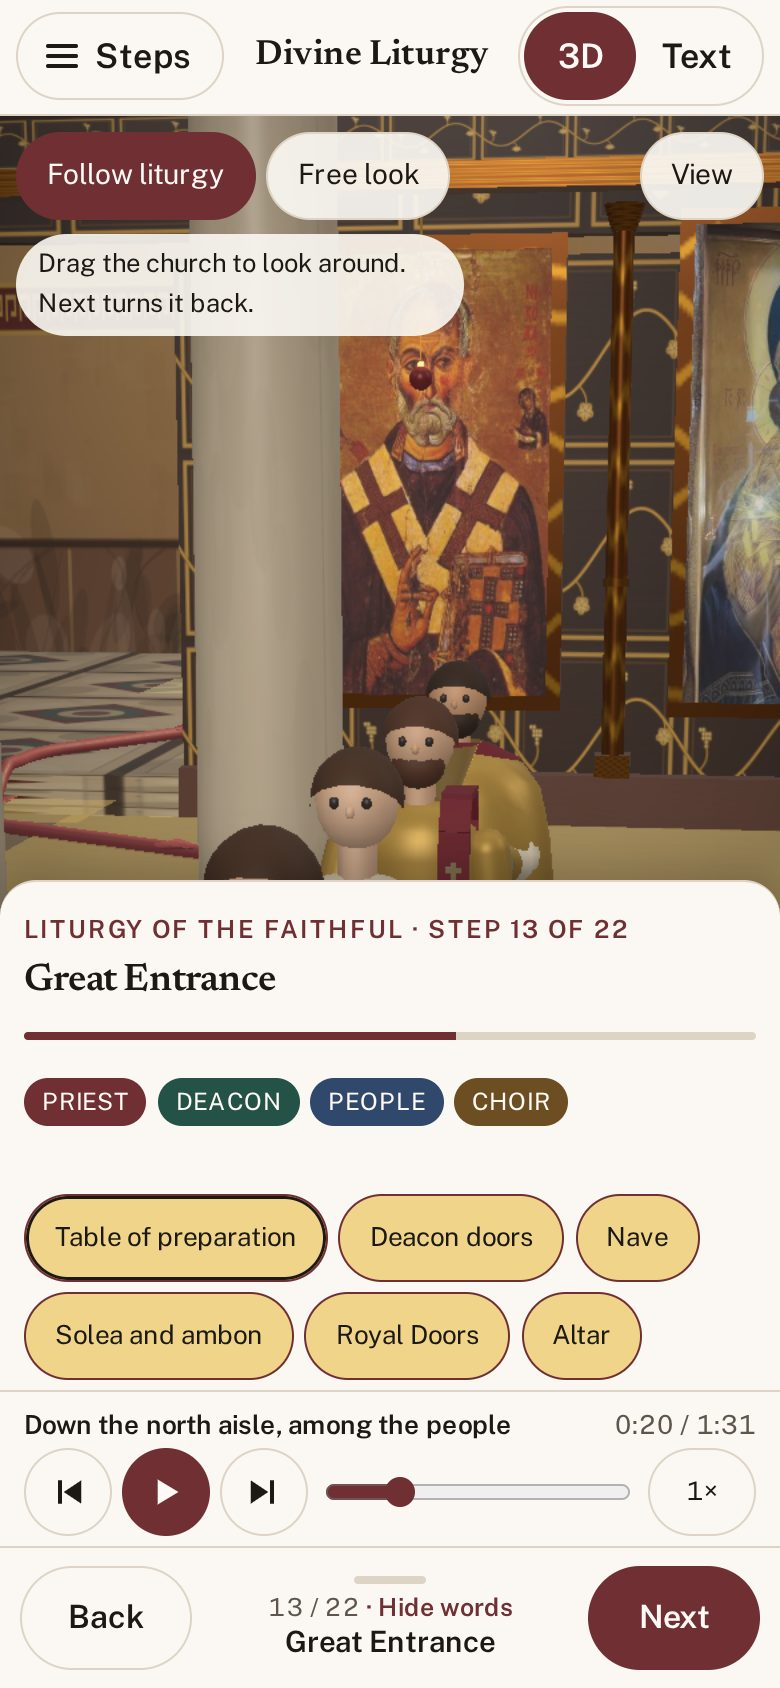
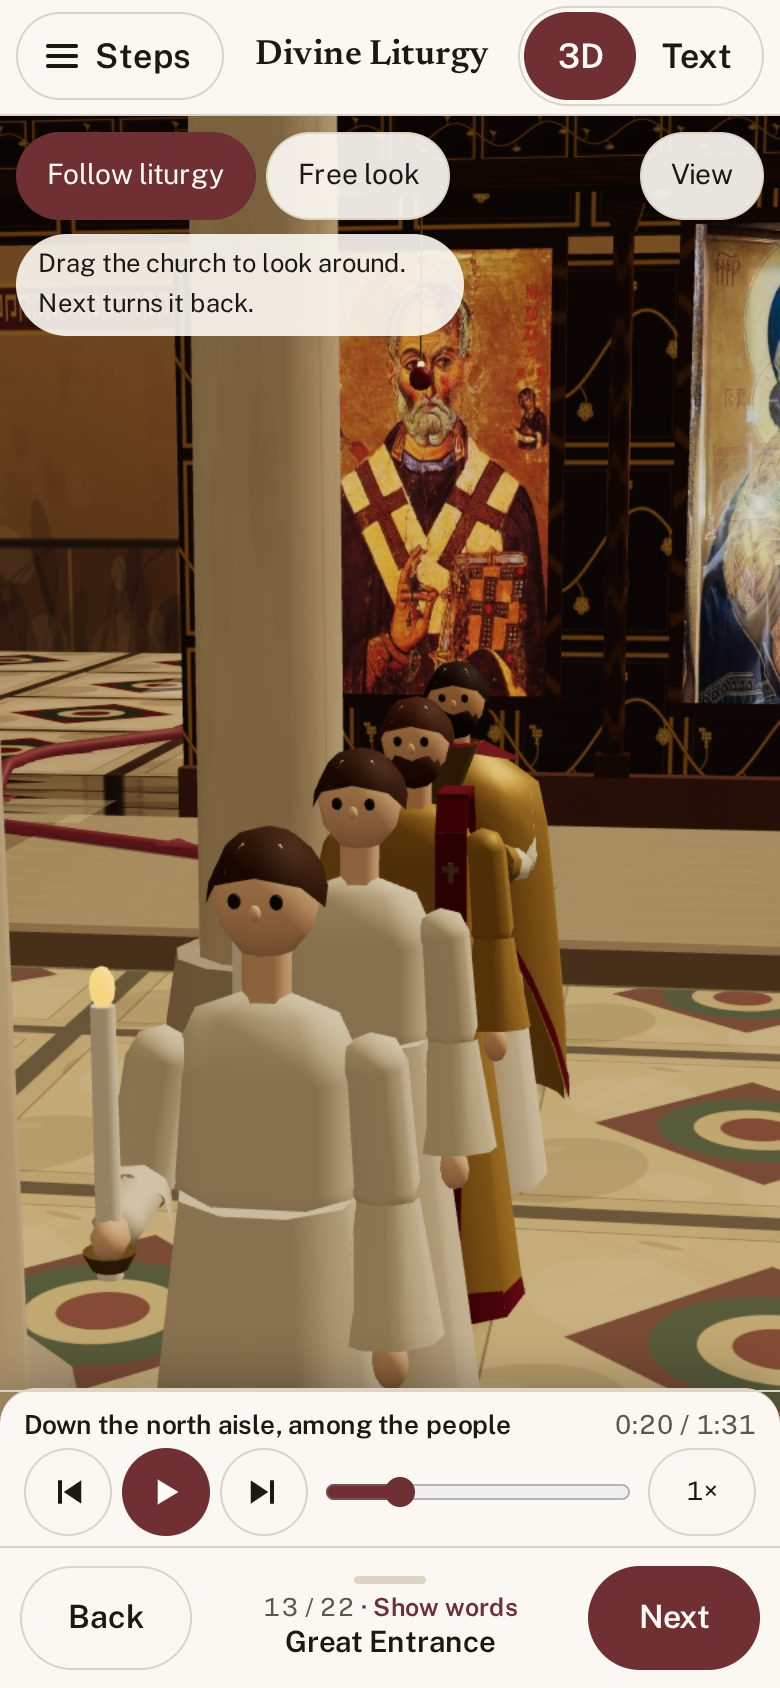
Docs and refreshed screenshots for the QA polish pass (Pass 12)

diff --git a/docs/ITERATION_LOG.md b/docs/ITERATION_LOG.md
@@ -387,3 +387,31 @@ Simplified on purpose: inside the sanctuary the clergy walk straight from the al
 the north door rather than circling the holy table, and the servers step into the doorway at the ambon
 stand instead of stepping aside. Parishes differ on how far into the nave each entrance goes; this church
 takes the Little Entrance across the front and the Great Entrance round the whole nave.
+
+## Pass 12: QA polish on the entrances and the phone view
+
+From the QA report on PR #18 (verdict SHIP, report in PR #19, `qa/QA_REPORT.md`).
+
+- Phone: each procession starts with the words folded, so the walk fills the picture above the player and
+  Back/Next. A tap on the step title still opens them, and ordinary steps keep whatever the reader last
+  chose.
+- The stand at the ambon: the follow camera used to be inside the Royal Doors looking out, so the two
+  candle bearers in the doorway hid the priest and deacon. About 6.5 m before the priest reaches the
+  ambon it now steps aside to the south side of the solea (4.5, 2.4, −8.45). From there the candles are
+  off to one side and the priest and deacon face the lens, on desktop and on an upright phone. It stays
+  there while they go in through the Royal Doors, then cuts to the view of the altar once the priest is
+  through. A followShot `take` marks the cut, so the camera never glides through the iconostas.
+- Proskomedia on an upright phone: a portrait-only pose (`portraitPoses` in `staging.ts`) stands back
+  near the south end of the iconostas, looks down over both clergy onto the table of preparation, and aims
+  low so the action sits above the open step sheet. Desktop and landscape keep the close shot.
+- Moment labels now start when the first candle reaches the place, not the priest, who is 3.15 m (about
+  4 s) behind. Stands (the start, the ambon) and the arrival at the altar still start when the priest
+  stops. A moment on the move never starts before the stand behind it is over, so "In through the Royal
+  Doors" appears as the procession moves off from the ambon.
+- Tests: moving labels begin when the first candle arrives, "Out through the north deacon door" names the
+  moment the candle is in the doorway, at the ambon the camera sees the priest and deacon inside a
+  portrait phone's field of view with no candle between, the camera cuts exactly once, the portrait
+  Proskomedia pose frames the table and both clergy from more than 2.5 m, and `phone:touch` checks the
+  folded sheet on a procession and that it opens.
+
+Checks: `npm run check` (66 tests), `npm run phone:touch` (46/46).
